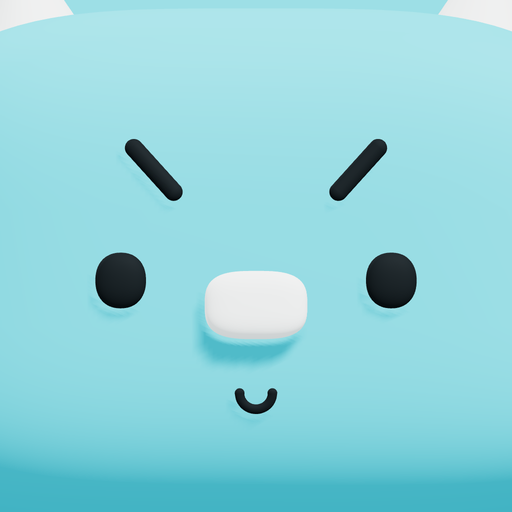
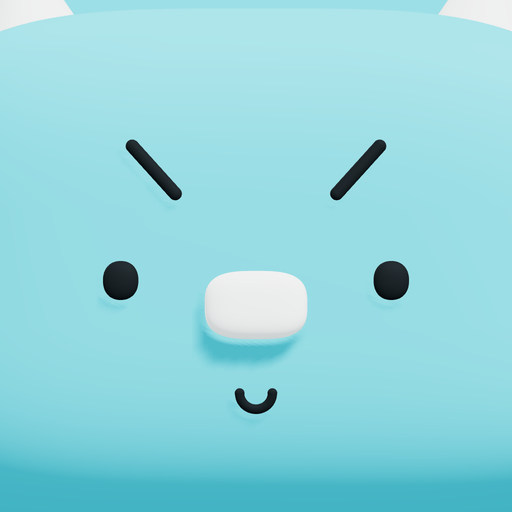
깨두 새 얼굴(눈 크기·눈썹 두께 -3) + 아이콘·파비콘·공유 이미지·인트로 다시 만듦
Claude-Session: https://claude.ai/code/session_01XV2fnkdfGEfNAj3q2V9NTe

diff --git a/index.html b/index.html
@@ -8,15 +8,15 @@
 <meta name="theme-color" content="#e4ebeb" media="(prefers-color-scheme: light)">
 <meta name="theme-color" content="#141a1c" media="(prefers-color-scheme: dark)">
 <link rel="manifest" href="manifest.webmanifest">
-<link rel="icon" href="favicon.ico?v=1" sizes="any"><link rel="icon" href="favicon.png?v=1" type="image/png">
-<link rel="apple-touch-icon" href="apple-touch-icon.png?v=3">
+<link rel="icon" href="favicon.ico?v=2" sizes="any"><link rel="icon" href="favicon.png?v=2" type="image/png">
+<link rel="apple-touch-icon" href="apple-touch-icon.png?v=4">
 <meta name="apple-mobile-web-app-capable" content="yes">
 <meta name="apple-mobile-web-app-title" content="Sonssies">
 <meta property="og:type" content="website">
 <meta property="og:url" content="https://sonssies.com/">
 <meta property="og:title" content="Sonssies - 나의 수호 도깨비 만들기">
 <meta property="og:description" content="나만의 수호 도깨비를 꾸미고 이미지로 저장해 보세요.">
-<meta property="og:image" content="https://sonssies.com/og.png?v=2">
+<meta property="og:image" content="https://sonssies.com/og.png?v=3">
 <meta name="twitter:card" content="summary_large_image">
 <link rel="apple-touch-startup-image" href="splash/launch-1320x2868.png?v=2" media="(device-width: 440px) and (device-height: 956px) and (-webkit-device-pixel-ratio: 3) and (orientation: portrait)">
 <link rel="apple-touch-startup-image" href="splash/launch-1290x2796.png?v=2" media="(device-width: 430px) and (device-height: 932px) and (-webkit-device-pixel-ratio: 3) and (orientation: portrait)">
@@ -296,7 +296,7 @@ footer{font:400 12px var(--f-mono);color:var(--muted);text-align:left;letter-spa
 @media (prefers-reduced-motion: reduce){#intro .iz,#intro .ib,#intro .ib img{animation:none}}
 </style>
 <div id="intro" aria-hidden="true"><div class="iz"><div class="ib">
[2 lines of base64/hex data omitted]
 </div></div></div>
 <script>
 (function(){
@@ -541,7 +541,7 @@ GROUPS.forEach(([,rows])=>rows.forEach(([k,l,mn,mx,d,st])=>{DEF[k]=d;META[k]={mn
 const P={...DEF};
 
 const PRESETS={
- '깨두':{browAng:48},
+ '깨두':{browAng:48,eyeSize:0.7,browThick:0.016},
  '꼬마':{blush:true,browAng:48,headW:0.96,headH:0.92,bodyLen:0.6,upperW:0.92,lowerW:0.95,armLen:0.6,legSplit:0.258,eyeSize:0.9,eyeX:0.36,hornSize:0.8,hornRound:1,earSize:1.1,browLen:0.15},
  '뚱보':{headW:1.2,headD:1.15,headSq:0.25,upperW:1.3,lowerW:1.42,bodyD:1.22,armThick:1.35,handSize:1.2,earSize:1.0,hornSize:1.15,mouthW:1.5,eyeX:0.4,legSplit:0.3,eyeType:'line',mouthType:'flat',eyeSize:1.9,browLen:0.2,browAng:24},
 };

diff --git a/src/dokkaebi-artifact.html b/src/dokkaebi-artifact.html
@@ -255,7 +255,7 @@ footer{font:400 12px var(--f-mono);color:var(--muted);text-align:left;letter-spa
 @media (prefers-reduced-motion: reduce){#intro .iz,#intro .ib,#intro .ib img{animation:none}}
 </style>
 <div id="intro" aria-hidden="true"><div class="iz"><div class="ib">
[2 lines of base64/hex data omitted]
 </div></div></div>
 <script>
 (function(){
@@ -500,7 +500,7 @@ GROUPS.forEach(([,rows])=>rows.forEach(([k,l,mn,mx,d,st])=>{DEF[k]=d;META[k]={mn
 const P={...DEF};
 
 const PRESETS={
- '깨두':{browAng:48},
+ '깨두':{browAng:48,eyeSize:0.7,browThick:0.016},
  '꼬마':{blush:true,browAng:48,headW:0.96,headH:0.92,bodyLen:0.6,upperW:0.92,lowerW:0.95,armLen:0.6,legSplit:0.258,eyeSize:0.9,eyeX:0.36,hornSize:0.8,hornRound:1,earSize:1.1,browLen:0.15},
  '뚱보':{headW:1.2,headD:1.15,headSq:0.25,upperW:1.3,lowerW:1.42,bodyD:1.22,armThick:1.35,handSize:1.2,earSize:1.0,hornSize:1.15,mouthW:1.5,eyeX:0.4,legSplit:0.3,eyeType:'line',mouthType:'flat',eyeSize:1.9,browLen:0.2,browAng:24},
 };

diff --git a/sw.js b/sw.js
@@ -1,5 +1,5 @@
 // 오프라인에서도 열리도록: 처음 받은 파일(페이지·3D 엔진·글꼴)을 저장해 두고, 새 버전이 있으면 다음 방문 때 갱신
-const CACHE='sonssies-v13';
+const CACHE='sonssies-v14';
 const CORE=['./','./index.html','./manifest.webmanifest','./icon-192.png','./icon-512.png'];
 self.addEventListener('install',e=>{e.waitUntil(caches.open(CACHE).then(c=>c.addAll(CORE)));self.skipWaiting()});
 self.addEventListener('activate',e=>{e.waitUntil(caches.keys().then(ks=>Promise.all(ks.filter(k=>k!==CACHE).map(k=>caches.delete(k)))));self.clients.claim()});

diff --git a/tools/build_site.py b/tools/build_site.py
@@ -33,15 +33,15 @@ head='''<!doctype html>
 <meta name="theme-color" content="#e4ebeb" media="(prefers-color-scheme: light)">
 <meta name="theme-color" content="#141a1c" media="(prefers-color-scheme: dark)">
 <link rel="manifest" href="manifest.webmanifest">
-<link rel="icon" href="favicon.ico?v=1" sizes="any"><link rel="icon" href="favicon.png?v=1" type="image/png">
-<link rel="apple-touch-icon" href="apple-touch-icon.png?v=3">
+<link rel="icon" href="favicon.ico?v=2" sizes="any"><link rel="icon" href="favicon.png?v=2" type="image/png">
+<link rel="apple-touch-icon" href="apple-touch-icon.png?v=4">
 <meta name="apple-mobile-web-app-capable" content="yes">
 <meta name="apple-mobile-web-app-title" content="Sonssies">
 <meta property="og:type" content="website">
 <meta property="og:url" content="https://sonssies.com/">
 <meta property="og:title" content="Sonssies - 나의 수호 도깨비 만들기">
 <meta property="og:description" content="나만의 수호 도깨비를 꾸미고 이미지로 저장해 보세요.">
-<meta property="og:image" content="https://sonssies.com/og.png?v=2">
+<meta property="og:image" content="https://sonssies.com/og.png?v=3">
 <meta name="twitter:card" content="summary_large_image">
 '''+open(os.path.join(ROOT,'splash','links.html'),encoding='utf8').read()
 i=s.index('<!-- 인트로') if '<!-- 인트로' in s else s.index('<div class="wrap">')   # 인트로부터 body에 넣어야 화면이 바로 그려짐
